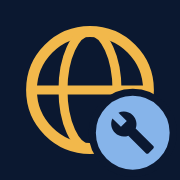
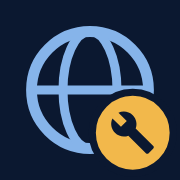
Pannello: icona A (globo azzurro con bollino dorato e chiave inglese)
Claude-Session: https://claude.ai/code/session_011sNsHjZ9qWhfrzgYNSXv5t

Changed region(s): [[0.1389, 0.1389, 0.9444, 0.9444]]

diff --git a/worker/worker.js b/worker/worker.js
@@ -743,7 +743,7 @@ async function panelApi(env, origin, b) {
   }
   throw { status: 400, code: "bad_action" };
 }
-const PANEL_ICON = '<svg xmlns="http://www.w3.org/2000/svg" viewBox="0 0 40 40"><rect width="40" height="40" rx="9" fill="#0B1830"/><circle cx="20" cy="20" r="13" fill="none" stroke="#F2B84B" stroke-width="2.4"/><ellipse cx="20" cy="20" rx="6" ry="13" fill="none" stroke="#F2B84B" stroke-width="2"/><path d="M7 20h26" stroke="#F2B84B" stroke-width="2"/><circle cx="29.5" cy="29.5" r="9" fill="#86B4EA" stroke="#0B1830" stroke-width="1.6"/><g transform="translate(24.3 24.3) scale(.43)" fill="#0B1830"><path d="M22.7 19l-9.1-9.1c.9-2.3.4-5-1.5-6.9-2-2-5-2.4-7.4-1.3L9 6 6 9 1.6 4.7C.4 7.1.9 10.1 2.9 12.1c1.9 1.9 4.6 2.4 6.9 1.5l9.1 9.1c.4.4 1 .4 1.4 0l2.3-2.3c.5-.4.5-1.1.1-1.4z"/></g></svg>';
+const PANEL_ICON = '<svg xmlns="http://www.w3.org/2000/svg" viewBox="0 0 40 40"><rect width="40" height="40" rx="9" fill="#0B1830"/><circle cx="20" cy="20" r="13" fill="none" stroke="#86B4EA" stroke-width="2.4"/><ellipse cx="20" cy="20" rx="6" ry="13" fill="none" stroke="#86B4EA" stroke-width="2"/><path d="M7 20h26" stroke="#86B4EA" stroke-width="2"/><circle cx="29.5" cy="29.5" r="9" fill="#F2B84B" stroke="#0B1830" stroke-width="1.6"/><g transform="translate(24.3 24.3) scale(.43)" fill="#0B1830"><path d="M22.7 19l-9.1-9.1c.9-2.3.4-5-1.5-6.9-2-2-5-2.4-7.4-1.3L9 6 6 9 1.6 4.7C.4 7.1.9 10.1 2.9 12.1c1.9 1.9 4.6 2.4 6.9 1.5l9.1 9.1c.4.4 1 .4 1.4 0l2.3-2.3c.5-.4.5-1.1.1-1.4z"/></g></svg>';
 const PANEL_PAGE = `<!doctype html><meta charset="utf-8"><meta name="viewport" content="width=device-width,initial-scale=1"><title>Pannello RG</title><link rel="icon" href="/ig/panel.svg" type="image/svg+xml"><link rel="apple-touch-icon" href="https://readgeopolitics.com/img/panel-180.png"><link rel="manifest" href="/ig/panel.webmanifest"><meta name="apple-mobile-web-app-title" content="Pannello RG"><meta name="theme-color" content="#0B1830"><link rel="preconnect" href="https://fonts.gstatic.com" crossorigin><link href="https://fonts.googleapis.com/css2?family=IBM+Plex+Mono:wght@500&family=IBM+Plex+Sans:wght@400;600&family=IBM+Plex+Serif:wght@600&display=swap" rel="stylesheet">
 <style>
 :root{color-scheme:dark}*{box-sizing:border-box}.dlg{position:fixed;inset:0;background:rgba(0,0,0,.6);display:flex;align-items:center;justify-content:center;z-index:9999;padding:16px}.dlb{background:#16212B;border:1px solid #2A3946;color:#E4EAEF;max-width:440px;width:100%;border-radius:12px;padding:18px 18px 12px;box-shadow:0 12px 40px rgba(0,0,0,.5)}.dlb p{margin:0 0 14px;white-space:pre-line;line-height:1.45}.dli{width:100%;margin:0 0 14px;padding:8px 10px;border-radius:8px;border:1px solid #2A3946;background:#0E151B;color:inherit;font:inherit}.dla{display:flex;gap:8px;justify-content:flex-end}.dla button{padding:8px 16px;border-radius:8px;border:1px solid #2A3946;background:transparent;color:inherit;font:inherit;cursor:pointer}.dla .dly{background:#3B82F6;border-color:#3B82F6;color:#fff;font-weight:600}.dlo{margin-top:10px;font-size:12px;color:#8A9AA8}.dlo summary{cursor:pointer}
